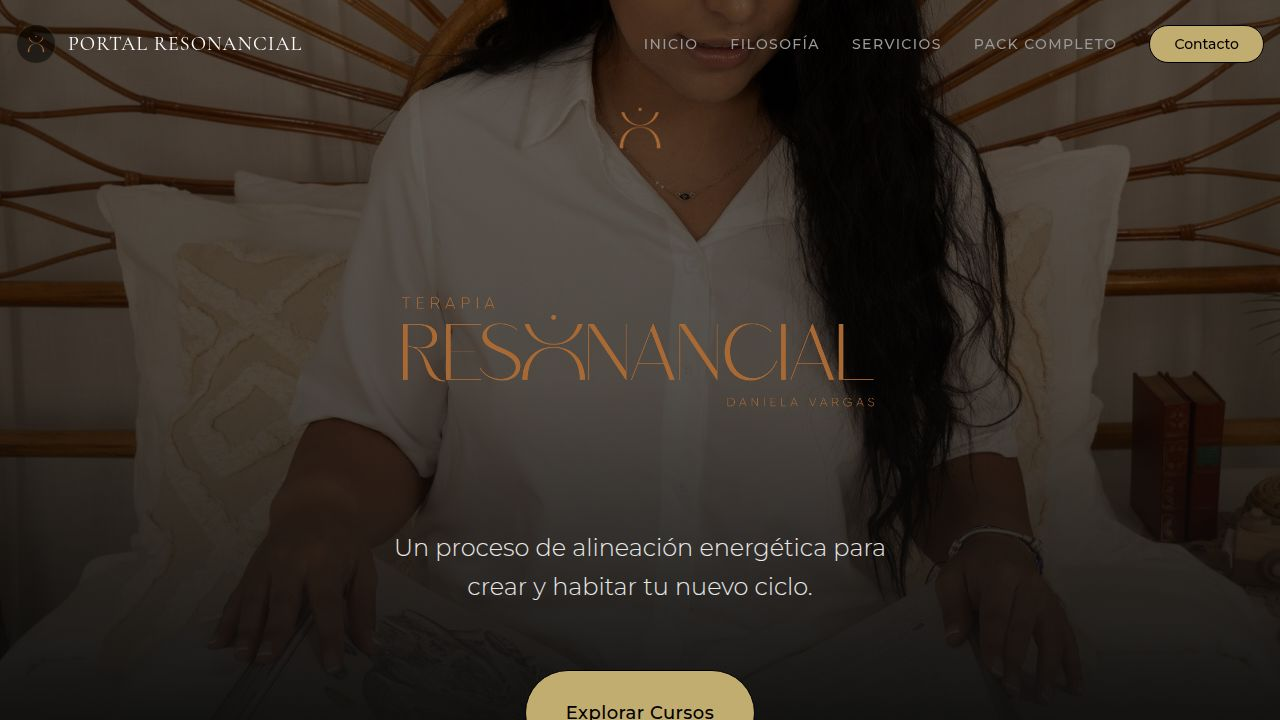
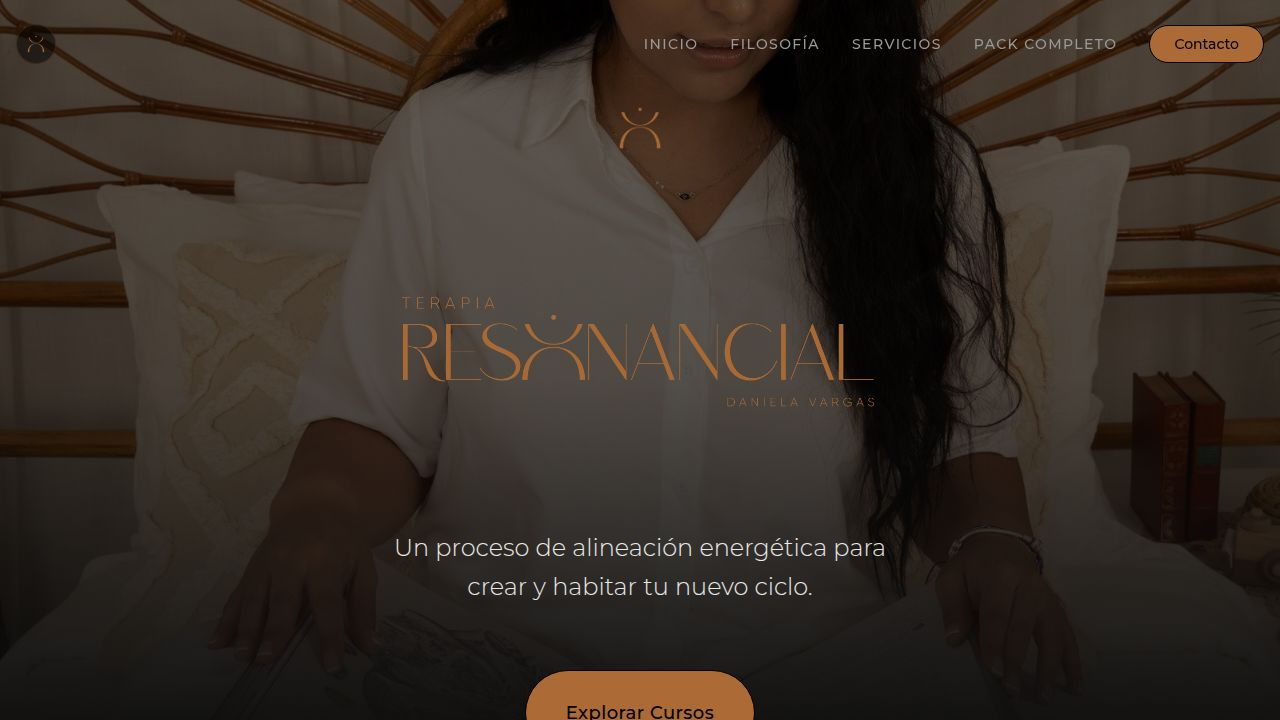
Update golden colors to a copper-brown shade
Replace `--primary`, `--accent`, and `--ring` CSS variables with new HSL values representing a copper-brown color (#a96935).

Replit-Commit-Author: Agent
Replit-Commit-Session-Id: a637d10a-1a11-4bb1-81d8-34aae379d4c2
Replit-Commit-Checkpoint-Type: full_checkpoint
Replit-Commit-Event-Id: b89b4cee-bc96-4921-8964-ad7989d48f89
Replit-Commit-Screenshot-Url: https://storage.googleapis.com/screenshot-production-us-central1/02734c65-51e1-4c1c-9591-da6fbdb83f98/a637d10a-1a11-4bb1-81d8-34aae379d4c2/noYt56A
Replit-Helium-Checkpoint-Created: true

diff --git a/client/src/index.css b/client/src/index.css
@@ -65,7 +65,7 @@
   --popover: 0 0% 8%;
   --popover-foreground: 40 20% 90%;
   
-  --primary: 45 40% 60%;       /* #a69b76 - Muted Gold */
+  --primary: 27 52% 44%;       /* #a96935 - Copper/Brown */
   --primary-foreground: 0 0% 10%;
   
   --secondary: 0 0% 15%;       /* Dark Grey */
@@ -74,7 +74,7 @@
   --muted: 0 0% 20%;
   --muted-foreground: 0 0% 60%;
   
-  --accent: 45 60% 50%;        /* Gold Accent */
+  --accent: 27 52% 44%;        /* #a96935 - Copper/Brown */
   --accent-foreground: 0 0% 98%;
   
   --destructive: 0 60% 30%;
@@ -82,7 +82,7 @@
 
   --border: 0 0% 20%;
   --input: 0 0% 20%;
-  --ring: 45 40% 60%;
+  --ring: 27 52% 44%;
   
   --radius: 0.5rem;
 }
